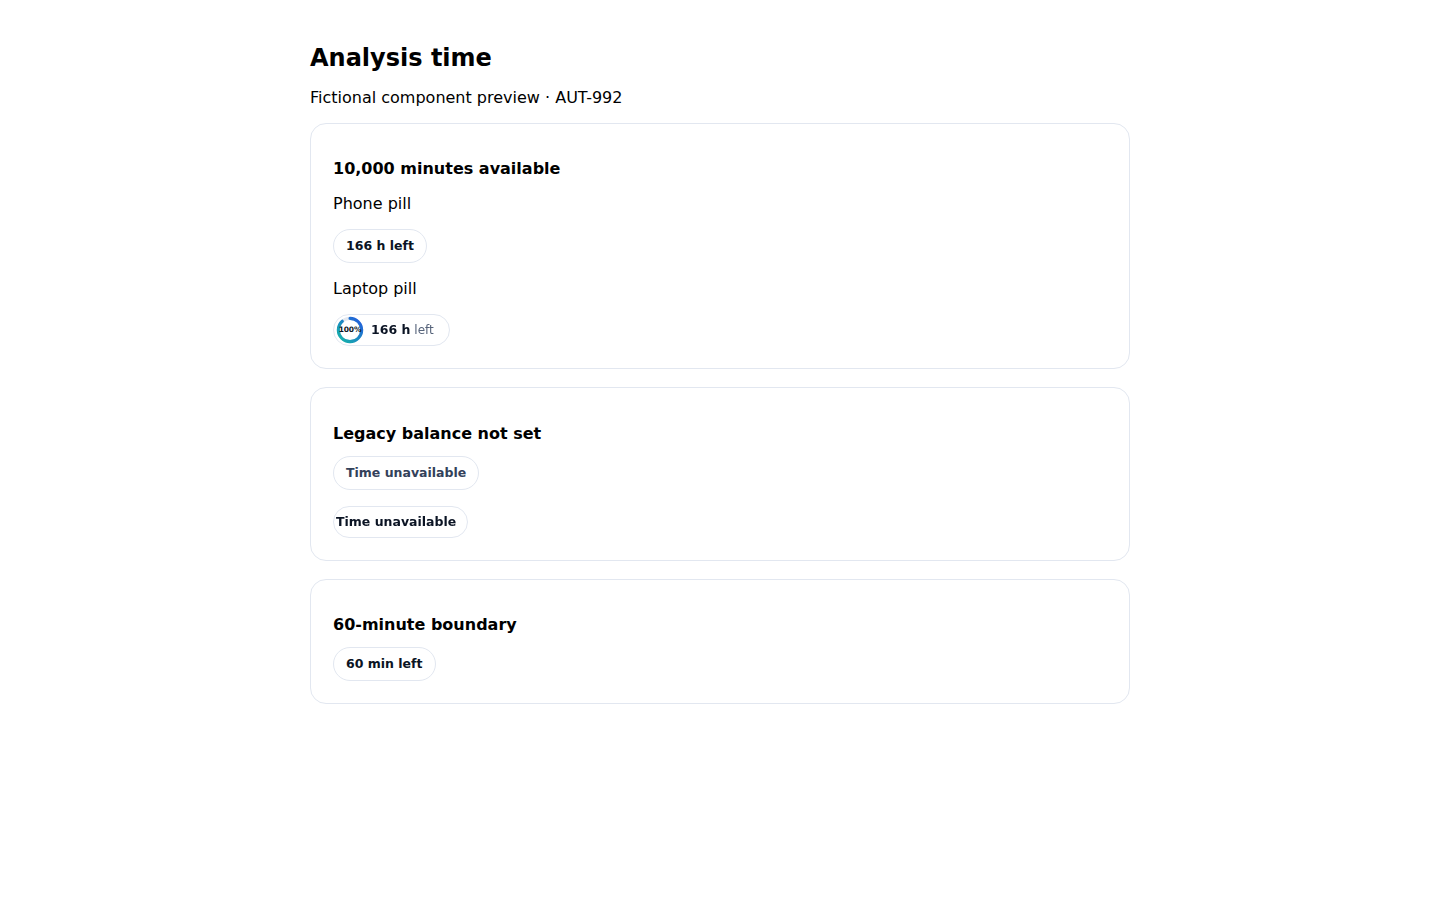
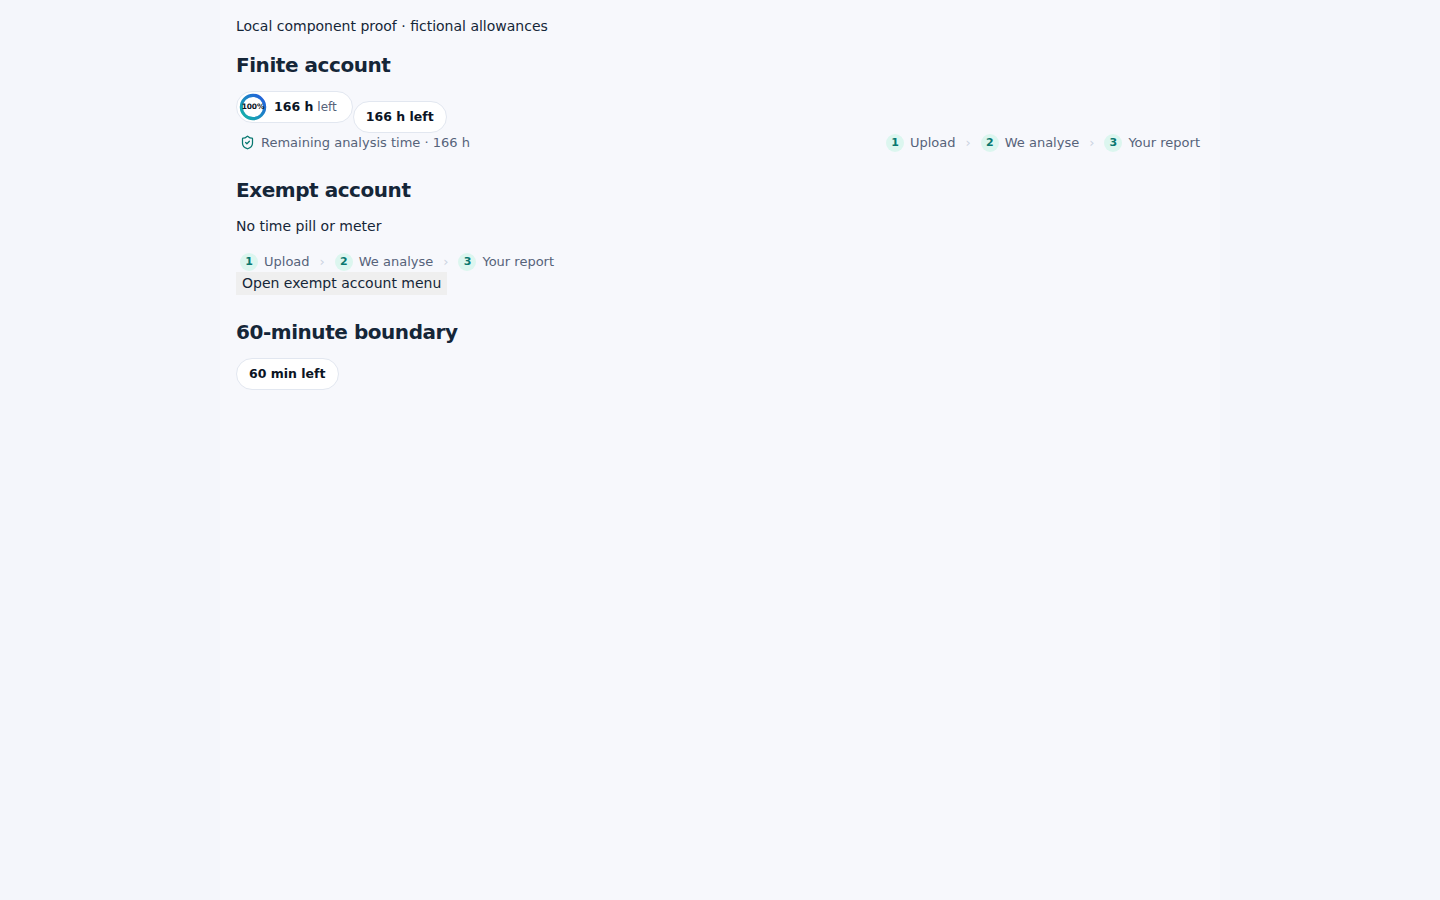
fix(sales-xray): omit time displays for exempt accounts

diff --git a/apps/sales-xray-web/app/acquisition-studio.tsx b/apps/sales-xray-web/app/acquisition-studio.tsx
@@ -170,9 +170,9 @@ export function remainingAllowanceLabel(
   allowance: Allowance | null,
   advertisedSeconds: number | null,
   unknown: boolean,
-): string {
+): string | null {
   if (allowance) {
-    if (allowance.unlimited) return "Analysis time balance unavailable";
+    if (allowance.unlimited) return null;
     if (allowance.available_seconds > 3600)
       return `Remaining analysis time · ${formatAnalysisTime(allowance.available_seconds)}`;
     const minutes = Math.floor(allowance.available_seconds / 60);
@@ -2584,14 +2584,16 @@ export function AcquisitionStudio({
                       </svg>
                       <h2>Add a call to review</h2>
                     </div>
-                    <span className={styles.allowanceBadge}>
-                      <ShieldCheck size={19} aria-hidden="true" />
-                      {remainingAllowanceLabel(
-                        allowance,
-                        entry?.allowance_seconds ?? null,
-                        allowanceUnknown,
-                      )}
-                    </span>
+                    {!allowance?.unlimited && (
+                      <span className={styles.allowanceBadge}>
+                        <ShieldCheck size={19} aria-hidden="true" />
+                        {remainingAllowanceLabel(
+                          allowance,
+                          entry?.allowance_seconds ?? null,
+                          allowanceUnknown,
+                        )}
+                      </span>
+                    )}
                   </div>
                 )}
                 {/* The empty state already has its card heading; a step
@@ -2884,7 +2886,7 @@ export function AcquisitionStudio({
                   }
                   onChange={(event) => choose(event.target.files?.[0])}
                 />
-                {!deletionOnlyId && policy && (
+                {!deletionOnlyId && policy && !allowance?.unlimited && (
                   <div className={styles.allowance}>
                     <ShieldCheck size={16} />
                     <span>
@@ -3183,11 +3185,13 @@ export function AcquisitionStudio({
                         ? `${(displayFileBytes / 1048576).toFixed(1)} MB`
                         : undefined
                     }
-                    allowanceLabel={remainingAllowanceLabel(
-                      allowance,
-                      entry?.allowance_seconds ?? null,
-                      allowanceUnknown,
-                    )}
+                    allowanceLabel={
+                      remainingAllowanceLabel(
+                        allowance,
+                        entry?.allowance_seconds ?? null,
+                        allowanceUnknown,
+                      ) ?? undefined
+                    }
                     paused={processingProjection.attention}
                   >
                     <button

diff --git a/apps/sales-xray-web/app/shell/settings-menu.test.tsx b/apps/sales-xray-web/app/shell/settings-menu.test.tsx
@@ -78,7 +78,7 @@ it("keeps the account menu inside the mobile viewport by the active trigger", as
   expect(Number.parseFloat(menu.style.bottom)).toBeLessThan(800);
 });
 
-it.each<[Allowance, string]>([
+it.each<[Allowance, string | null]>([
   [
     {
       allowance_seconds: 600000,
@@ -94,7 +94,7 @@ it.each<[Allowance, string]>([
       committed_seconds: 0,
       unlimited: true,
     },
-    "Time unavailable",
+    null,
   ],
 ])("does not invent a plan for %j", async (allowance, text) => {
   host = document.createElement("div");
@@ -115,9 +115,18 @@ it.each<[Allowance, string]>([
   const menu = document.querySelector(
     '[role="dialog"][aria-label="Account menu"]',
   )!;
-  expect(menu.textContent).toContain(text);
-  expect(menu.textContent).not.toMatch(/Unlimited|Trial/);
+  if (text) expect(menu.textContent).toContain(text);
+  expect(menu.textContent).not.toMatch(/Unlimited|unavailable|Trial/i);
   expect(menu.querySelector('a[href="/plans"]')?.textContent).toBe("Plans");
-  if (allowance.unlimited)
+  if (allowance.unlimited) {
     expect(menu.querySelector('[aria-hidden="true"] i')).toBeNull();
+    const buttons = [...menu.querySelectorAll("button")];
+    expect(
+      buttons.some((button) => button.textContent?.includes("Analysis time")),
+    ).toBe(false);
+    expect(
+      buttons.find((button) => button.textContent?.startsWith("Usage"))
+        ?.textContent,
+    ).toBe("Usage");
+  }
 });

diff --git a/apps/sales-xray-web/app/new-analysis-hero.tsx b/apps/sales-xray-web/app/new-analysis-hero.tsx
@@ -36,14 +36,16 @@ const STEPS = ["Upload", "We analyse", "Your report"] as const;
 export function NewAnalysisFooter({
   allowanceLabel,
 }: {
-  allowanceLabel: string;
+  allowanceLabel: string | null;
 }) {
   return (
     <div className={styles.footer}>
-      <span className={styles.allowance}>
-        <ShieldCheck size={15} aria-hidden="true" />
-        {allowanceLabel}
-      </span>
+      {allowanceLabel && (
+        <span className={styles.allowance}>
+          <ShieldCheck size={15} aria-hidden="true" />
+          {allowanceLabel}
+        </span>
+      )}
       <ol className={styles.trail} aria-label="How it works">
         {STEPS.map((step, index) => (
           <li key={step}>

diff --git a/apps/sales-xray-web/app/new-analysis-hero.test.tsx b/apps/sales-xray-web/app/new-analysis-hero.test.tsx
@@ -70,3 +70,14 @@ it("shows the allowance and the three steps under the card", async () => {
     [...host.querySelectorAll("li")].map((step) => step.textContent),
   ).toEqual(["1Upload", "2We analyse", "3Your report"]);
 });
+
+it("omits the allowance line for an exempt account and keeps the steps", async () => {
+  await act(async () =>
+    root.render(<NewAnalysisFooter allowanceLabel={null} />),
+  );
+  expect(host.querySelector("svg")).toBeNull();
+  expect(host.textContent).not.toMatch(/unlimited|unavailable|analysis time/i);
+  expect(
+    [...host.querySelectorAll("li")].map((step) => step.textContent),
+  ).toEqual(["1Upload", "2We analyse", "3Your report"]);
+});

diff --git a/apps/sales-xray-web/app/shell/minutes-meter.tsx b/apps/sales-xray-web/app/shell/minutes-meter.tsx
@@ -16,18 +16,7 @@ export function MinutesMeter({
   allowance?: Allowance | null;
   variant?: "rail" | "pill";
 }) {
-  if (!allowance) return null;
-  if (allowance.unlimited)
-    return (
-      <p
-        className={styles.meter}
-        data-variant={variant}
-        data-minutes-meter
-        title="Analysis time balance unavailable"
-      >
-        <span className={styles.label}>Time unavailable</span>
-      </p>
-    );
+  if (!allowance || allowance.unlimited) return null;
   const left = Math.floor(allowance.available_seconds / 60);
   const secs = allowance.available_seconds % 60;
   const total = Math.floor(allowance.allowance_seconds / 60);

diff --git a/apps/sales-xray-web/app/acquisition-shell.test.tsx b/apps/sales-xray-web/app/acquisition-shell.test.tsx
@@ -217,8 +217,10 @@ it("shows analysis time only from a verified allowance", () => {
     ),
   );
   expect(unlimited.querySelector('[role="meter"]')).toBeNull();
-  expect(unlimited.textContent).toContain("Time unavailable");
-  expect(unlimited.textContent).not.toMatch(/unlimited|∞|0 min|100%/i);
+  expect(unlimited.querySelector("[data-minutes-meter]")).toBeNull();
+  expect(unlimited.textContent).not.toMatch(
+    /unlimited|unavailable|∞|0 min|100%/i,
+  );
 });
 
 it("shows hours in both shell pills and retains exact minutes for readers", () => {

diff --git a/apps/sales-xray-web/app/shell/allowance-ring.tsx b/apps/sales-xray-web/app/shell/allowance-ring.tsx
@@ -60,19 +60,7 @@ export function AllowanceRing({
     </svg>
   );
 
-  if (allowance.unlimited)
-    return (
-      <div
-        className={styles.meter}
-        data-level="unknown"
-        title="Analysis time balance unavailable"
-        data-minutes-meter
-      >
-        <span className={styles.text}>
-          <strong>Time unavailable</strong>
-        </span>
-      </div>
-    );
+  if (allowance.unlimited) return null;
 
   const share =
     allowance.allowance_seconds > 0

diff --git a/apps/sales-xray-web/app/shell/settings-menu.tsx b/apps/sales-xray-web/app/shell/settings-menu.tsx
@@ -84,8 +84,7 @@ function initials(name: string | null, email: string | null) {
 }
 
 function minutesLine(allowance: Allowance | null) {
-  if (!allowance) return null;
-  if (allowance.unlimited) return { text: "Time unavailable", share: null };
+  if (!allowance || allowance.unlimited) return null;
   const left = formatAnalysisTime(allowance.available_seconds);
   const total = formatAnalysisTime(allowance.allowance_seconds);
   const share =

diff --git a/apps/sales-xray-web/app/acquisition-studio.test.tsx b/apps/sales-xray-web/app/acquisition-studio.test.tsx
@@ -1806,7 +1806,7 @@ it("does not present a legacy tester flag as a plan or finite balance", () => {
       3600,
       false,
     ),
-  ).toBe("Analysis time balance unavailable");
+  ).toBeNull();
 });
 
 it("gives guests their owner-checked call link instead of promising an account library", async () => {

diff --git a/docs/evidence/sales-xray-owner-fixes-20261003/compact-time.md b/docs/evidence/sales-xray-owner-fixes-20261003/compact-time.md
@@ -4,22 +4,22 @@ Source base: `cf15c61b` (includes merged speaker wiring PR #273).
 
 The phone and laptop shell pills show hours above 60 minutes, rounded down so the compact label never overstates the available time. A 10,000-minute allowance reads `166 h`; 60 minutes stays `60 min`. Tooltips and accessible meter values retain the exact minute totals and seconds. The percentage ring still uses the verified allowance. The account menu uses the same compact time and no longer infers Trial or Unlimited plan names from an allowance flag. New-analysis footer copy also uses hours for long balances.
 
-Legacy internal tester responses do not contain a finite available balance. Their pills and menu now say `Time unavailable`, with no infinity symbol, invented zero balance, full meter or plan claim. This changes display only; a backend flag is not a credit balance.
+Legacy internal tester responses do not contain a finite available balance. Their time pills, meters and allowance lines are omitted. The account menu omits the analysis-time usage block and Usage percentage. Neither Unlimited nor unavailable copy appears. The New-analysis footer keeps its three steps. This changes display only; a backend flag is not a credit balance.
 
 Implementation choice: ship this independent time-display prerequisite while E1 supplies the canonical credit-balance HTTP read. Credits and minutes are separate currencies. PR #262 adds internal ledger reads only; AUT-993's plan explicitly defers HTTP balance/history. This PR supplies no synthetic credit balance and does not complete the full credits-and-hours requirement. Other account, billing, organisation and plans surfaces remain for subsequent E0/E1 slices.
 
 ## Verification
 
 - Web lint and typecheck passed.
-- Final changed-area suite: 29 passed across time formatter, shell, footer, menu and profile menu. New-analysis formatter checks: 4 passed, 105 unrelated tests excluded by name.
-- Browser checks at 390 and 1440 px: both actual pill components show `166 h`, exact accessible seconds/minutes and percentage are retained, 60-minute boundary stays in minutes, legacy balance has no finite meter or Unlimited claim, zero page errors and horizontal overflow. The temporary preview server was stopped.
-- [Phone](time-pill-390.png), [laptop](time-pill-1440.png), [browser receipt](time-pill-browser.json).
+- Final changed-area suite after the CTO correction: 30 passed across time formatter, shell, footer, menu and profile menu. Acquisition formatter and processing checks: 7 passed, 102 unrelated tests excluded by name.
+- Browser checks at 390 and 1440 px: both actual finite-account pill components show `166 h`, exact accessible seconds/minutes and percentage are retained, 60-minute boundary stays in minutes, exempt accounts have no pill, meter, usage block, Usage percentage, footer allowance line, Unlimited or unavailable copy, zero page errors and horizontal overflow. The temporary preview server was stopped.
+- [Phone](time-pill-390.png), [laptop](time-pill-1440.png), [exempt phone menu](time-menu-390.png), [exempt laptop menu](time-menu-1440.png), [browser receipt](time-pill-browser.json).
 
-Browser screenshots use actual branch components and application CSS in a clearly labelled fictional component preview. They do not prove deployed account balances or credit persistence. No recordings, real accounts or provider calls were used.
+Browser screenshots use actual branch components (both pills, account menu and New-analysis footer) and application CSS in a clearly labelled fictional component preview. Next Link is represented by an anchor in the preview. The screenshots do not prove deployed account balances or credit persistence. No recordings, real accounts or provider calls were used.
 
 ## Dev check after merge
 
-At https://salesxray-dev.authorityclosers.com, open a fictional sandbox account with a finite allowance at 390 px and laptop width. Check the header pill, account menu and New analysis footer. An available 10,000-minute allowance shows `166 h`; 60 minutes shows `60 min`. Hover the laptop pill or inspect its accessible meter to see exact totals; confirm the percentage still matches the server response. A legacy tester response should show `Time unavailable`, not a plan name or finite balance. Repeat on staging after the train deploys.
+At https://salesxray-dev.authorityclosers.com, open a fictional sandbox account with a finite allowance at 390 px and laptop width. Check the header pill, account menu and New analysis footer. An available 10,000-minute allowance shows `166 h`; 60 minutes shows `60 min`. Hover the laptop pill or inspect its accessible meter to see exact totals; confirm the percentage still matches the server response. An exempt response must show no time pill or meter; the menu has no analysis-time usage block or Usage percentage, and the footer has no allowance line. No Unlimited or unavailable message appears. Repeat on staging after the train deploys.
 
 Limits: authenticated dev saves and staging verification remain pending. The read-only dev fixture at 390 px still showed local-save copy after PR #273 merged; it is not proof of the live speaker provider. Existing loopback shells at ports 3016/3026 served older pill copy during this run; their owning checkouts were not altered. Paperclip reports no realized execution workspace for this issue, so the bounded component preview used a run-owned scratch directory and synchronous server teardown.
 
